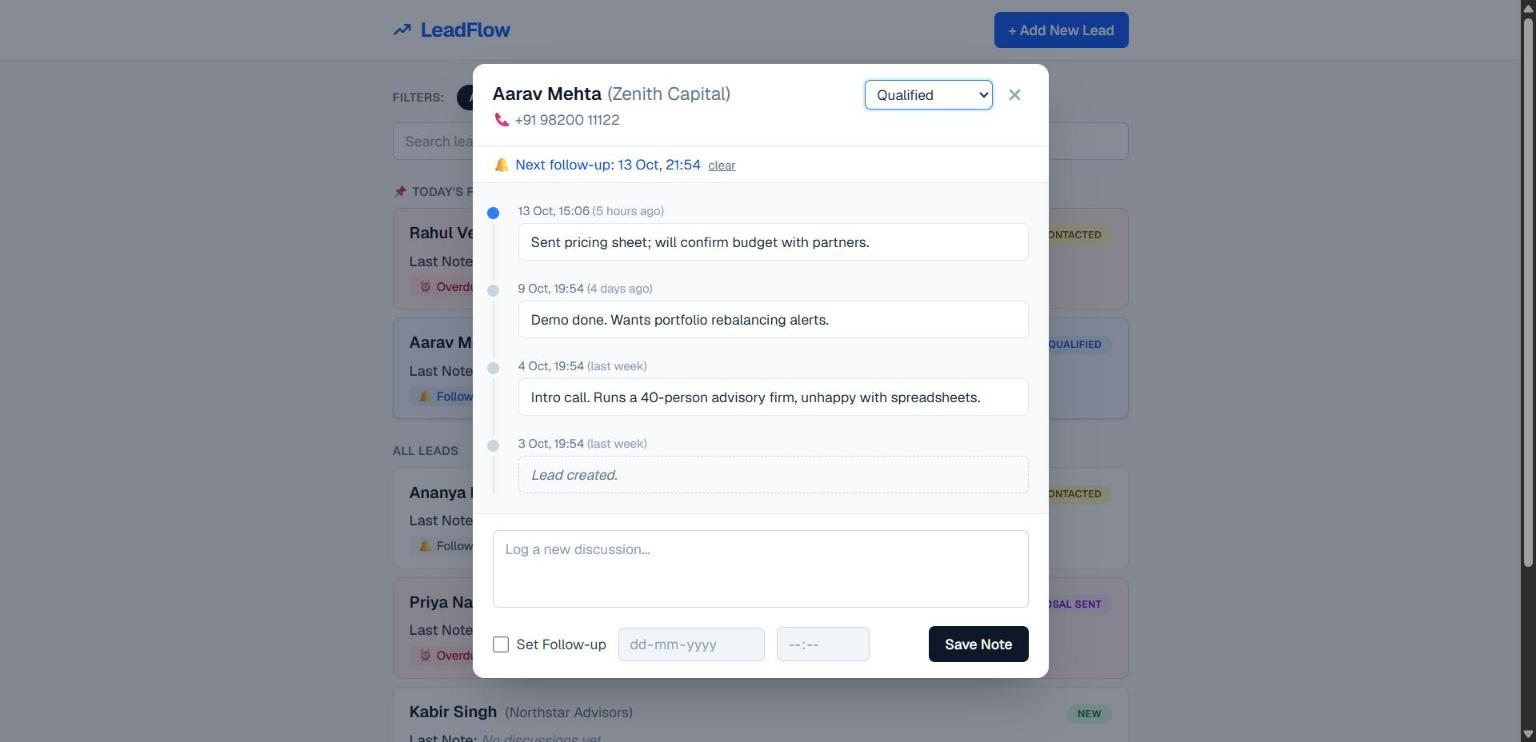
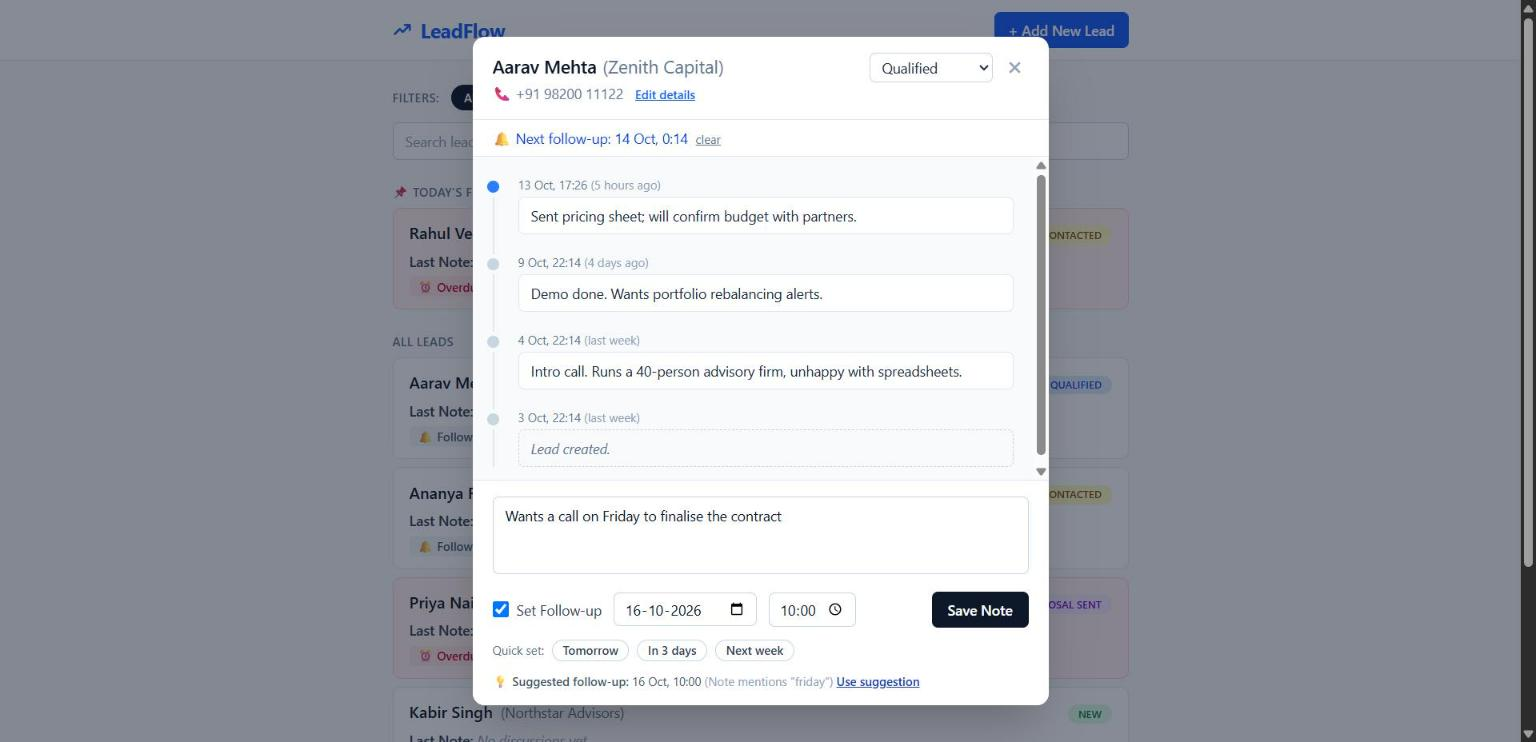
Refresh README and timeline screenshot

diff --git a/README.md b/README.md
@@ -38,7 +38,10 @@ Built for the PravarAI full-stack intern assessment.
 **Extras**
 
 - Layout and wording follow the supplied wireframes
-- Unsaved-note protection: closing a dialog with typed input asks before discarding
+- Unsaved-input protection: closing a dialog with a typed note or unsaved edits asks before discarding
+- Quick-set follow-up chips (Tomorrow, In 3 days, Next week, all at 10:00 local time)
+- Suggested follow-up: a deterministic, rule-based suggestion (no AI service involved) from the lead's status and the note text, for example "call on Friday" suggests the next Friday. It only fills the form when you click "Use suggestion" and never saves anything on its own
+- Edit lead details (name, company, phone) from the timeline dialog
 - "Lead created" appears in the timeline as a system event and is never stored as a discussion
 - Won and Lost leads are dimmed and never flagged as overdue
 
@@ -81,14 +84,14 @@ Frontend on http://localhost:3000, API on http://localhost:8000. The backend see
 
 ```bash
 cd backend && pytest -q          # 32 API tests
-cd frontend && npm test          # 36 UI and time-logic tests
+cd frontend && npm test          # 57 UI and logic tests
 ```
 
 What is covered:
 
 - **API:** status codes and error shapes, validation limits, partial updates, search wildcards, combined filters, ordering with identical timestamps, CORS, seed idempotency.
 - **Time logic:** today and overdue across local midnight and the UTC/local date boundary (the suite pins the timezone to Asia/Kolkata), closed leads never flagged, pin ordering.
-- **UI:** saving a note with and without a follow-up, validation, failed saves keeping the typed note, double-submit prevention, status changes, the unsaved-note guard.
+- **UI:** saving a note with and without a follow-up, validation, failed saves keeping the typed note, double-submit prevention, status changes, the unsaved-input guard, snooze presets, the rule-based suggestion, editing lead details.
 
 ## Environment variables
 
@@ -149,5 +152,4 @@ This project was built with Claude Code (Anthropic) as a pair-programming assist
 
 - No authentication or multi-user support; the data model is single-tenant.
 - No pagination on the lead list; fine for one rep's pipeline, and the first thing to add at scale.
-- Lead details (name, company, phone) are editable through the API but not yet in the UI.
 - SQLite is used for zero-setup; the `DATABASE_URL` setting makes moving to Postgres a configuration change plus a migration tool such as Alembic.
